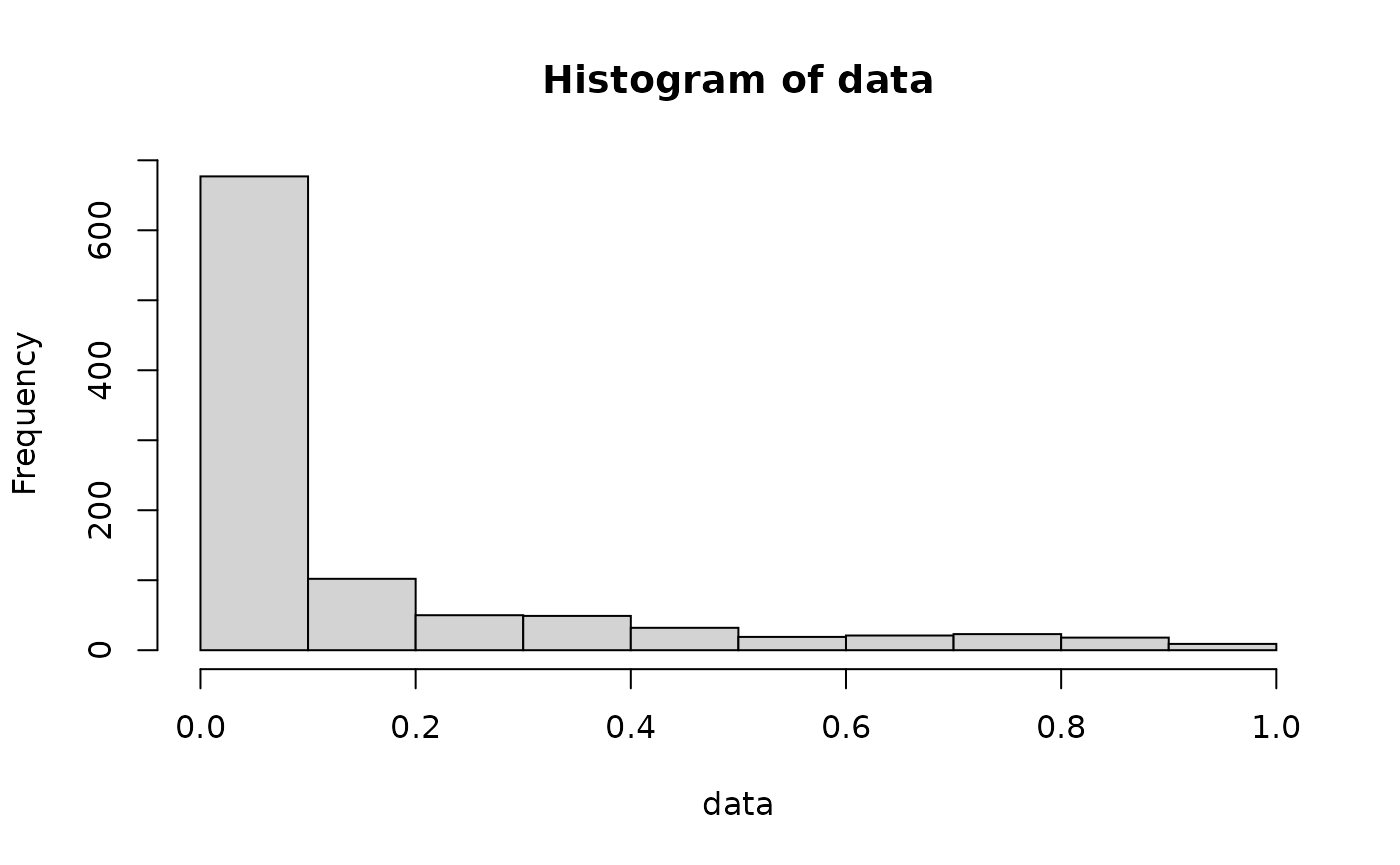
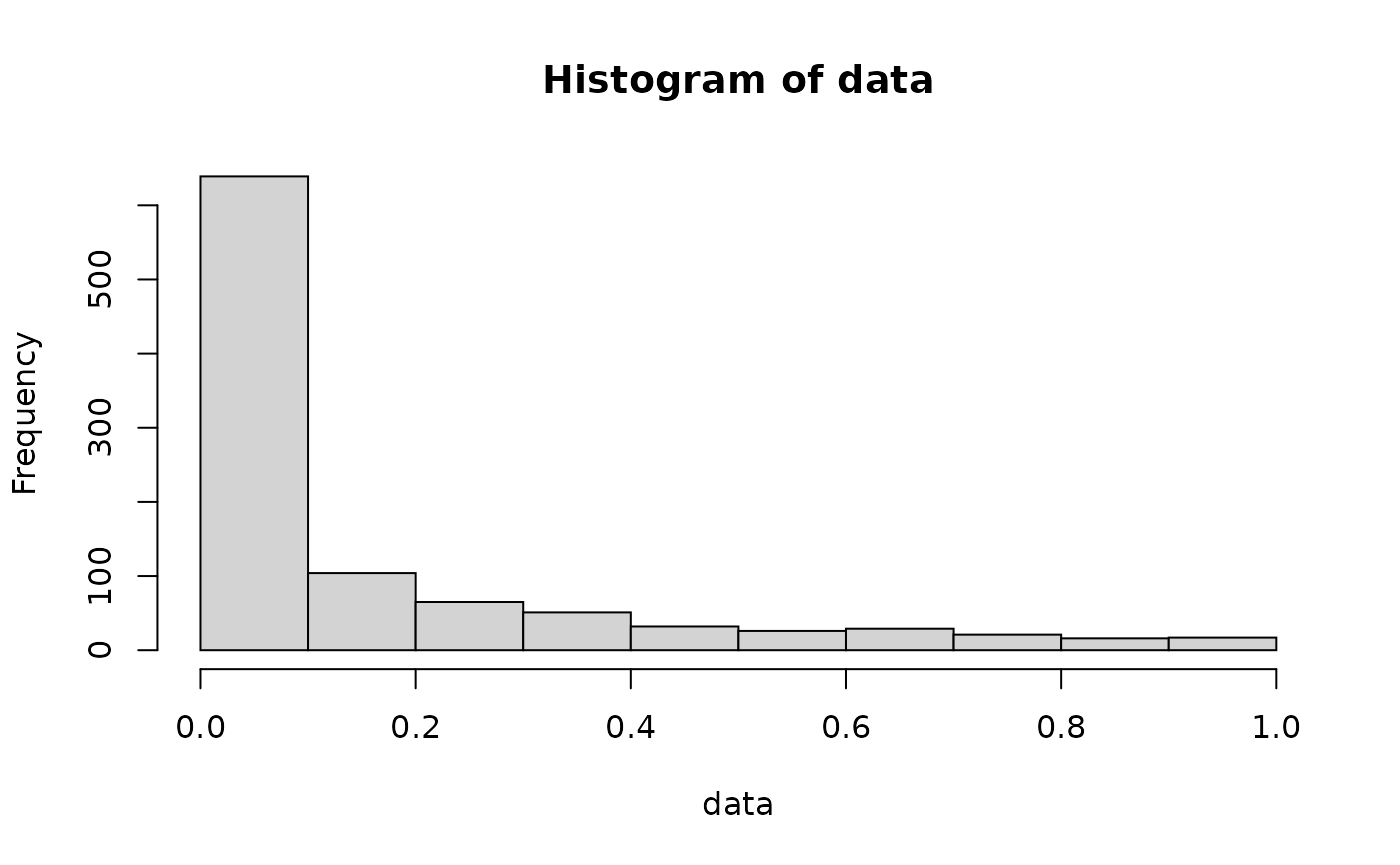
Built site for bradfordr: 0.0.0.9000@bb4c2ce

diff --git a/articles/rng-bradford-dist.html b/articles/rng-bradford-dist.html
@@ -134,7 +134,7 @@ x = F^{-1}(u;c) = \frac{(1+c)^u - 1}{c}
 <span class="va">data</span> <span class="op">&lt;-</span> <span class="fu"><a href="../reference/bradford.html">rbradford</a></span><span class="op">(</span><span class="fl">1000</span>, c<span class="op">=</span><span class="fl">10</span><span class="op">)</span>
 
 <span class="fu"><a href="https://rdrr.io/r/utils/head.html">head</a></span><span class="op">(</span><span class="va">data</span><span class="op">)</span>
-<span class="co">#&gt; [1] 0.99222270 0.01258643 0.27485564 0.16384905 0.65044016 0.24663520</span></code></pre></div>
+<span class="co">#&gt; [1] 0.27639828 0.11461536 0.05810641 0.37735477 0.17607866 0.14172761</span></code></pre></div>
 <p>We can easily plot this data to understand how it behaves:</p>
 <div class="sourceCode" id="cb3"><pre class="downlit sourceCode r">
 <code class="sourceCode R">
